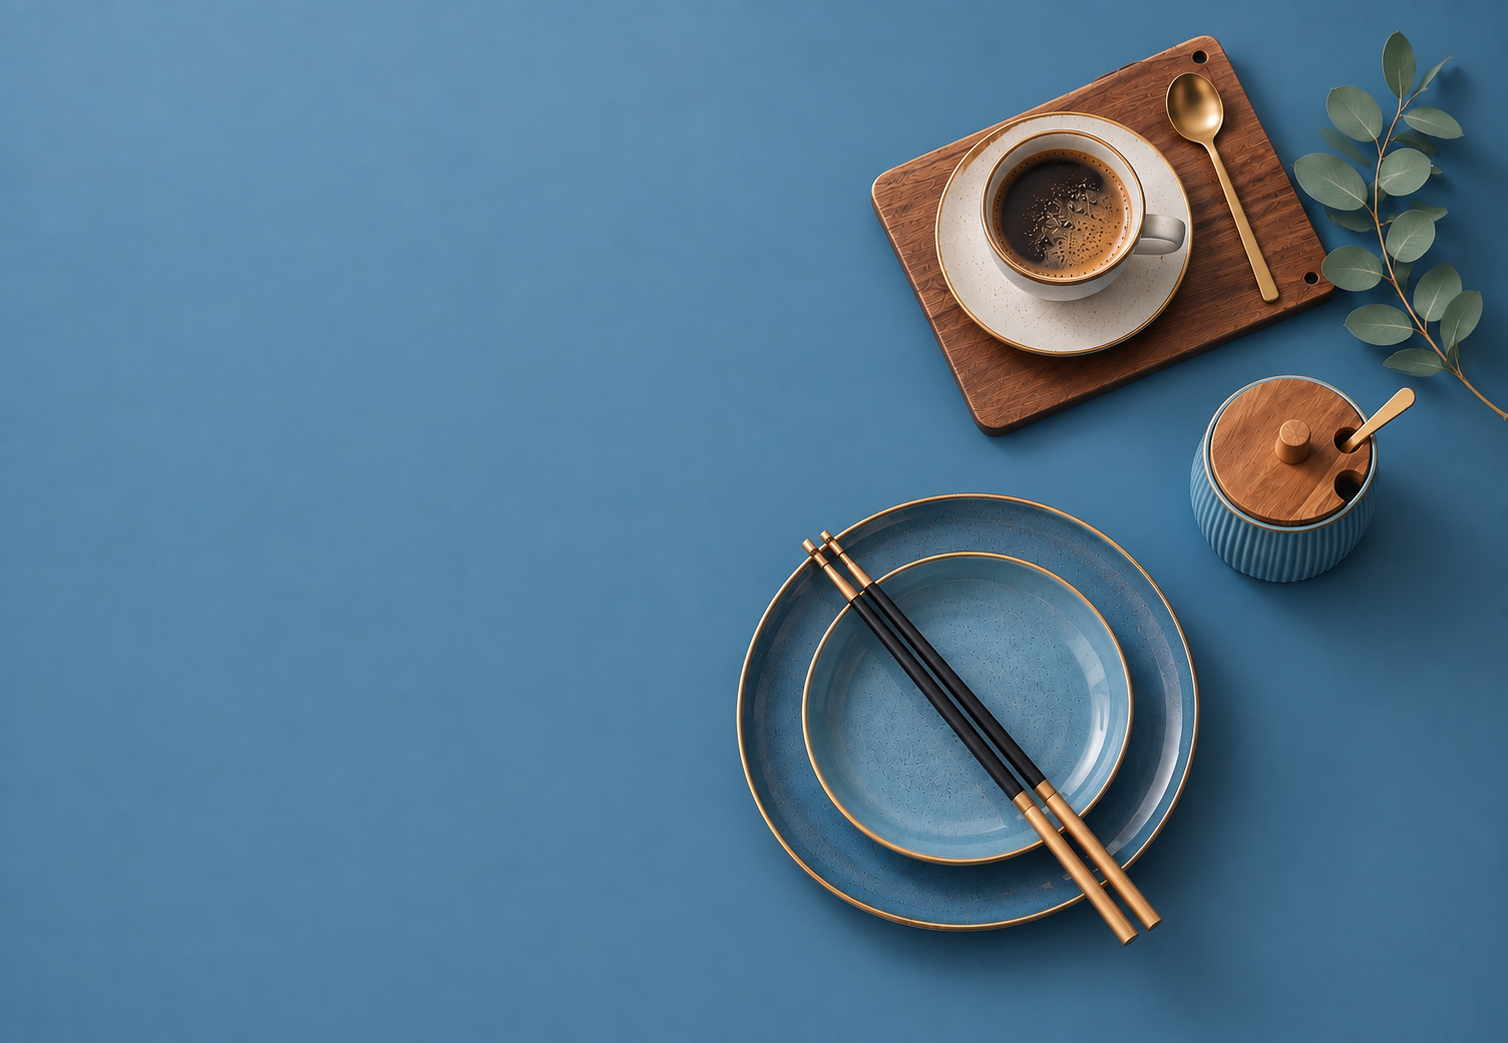
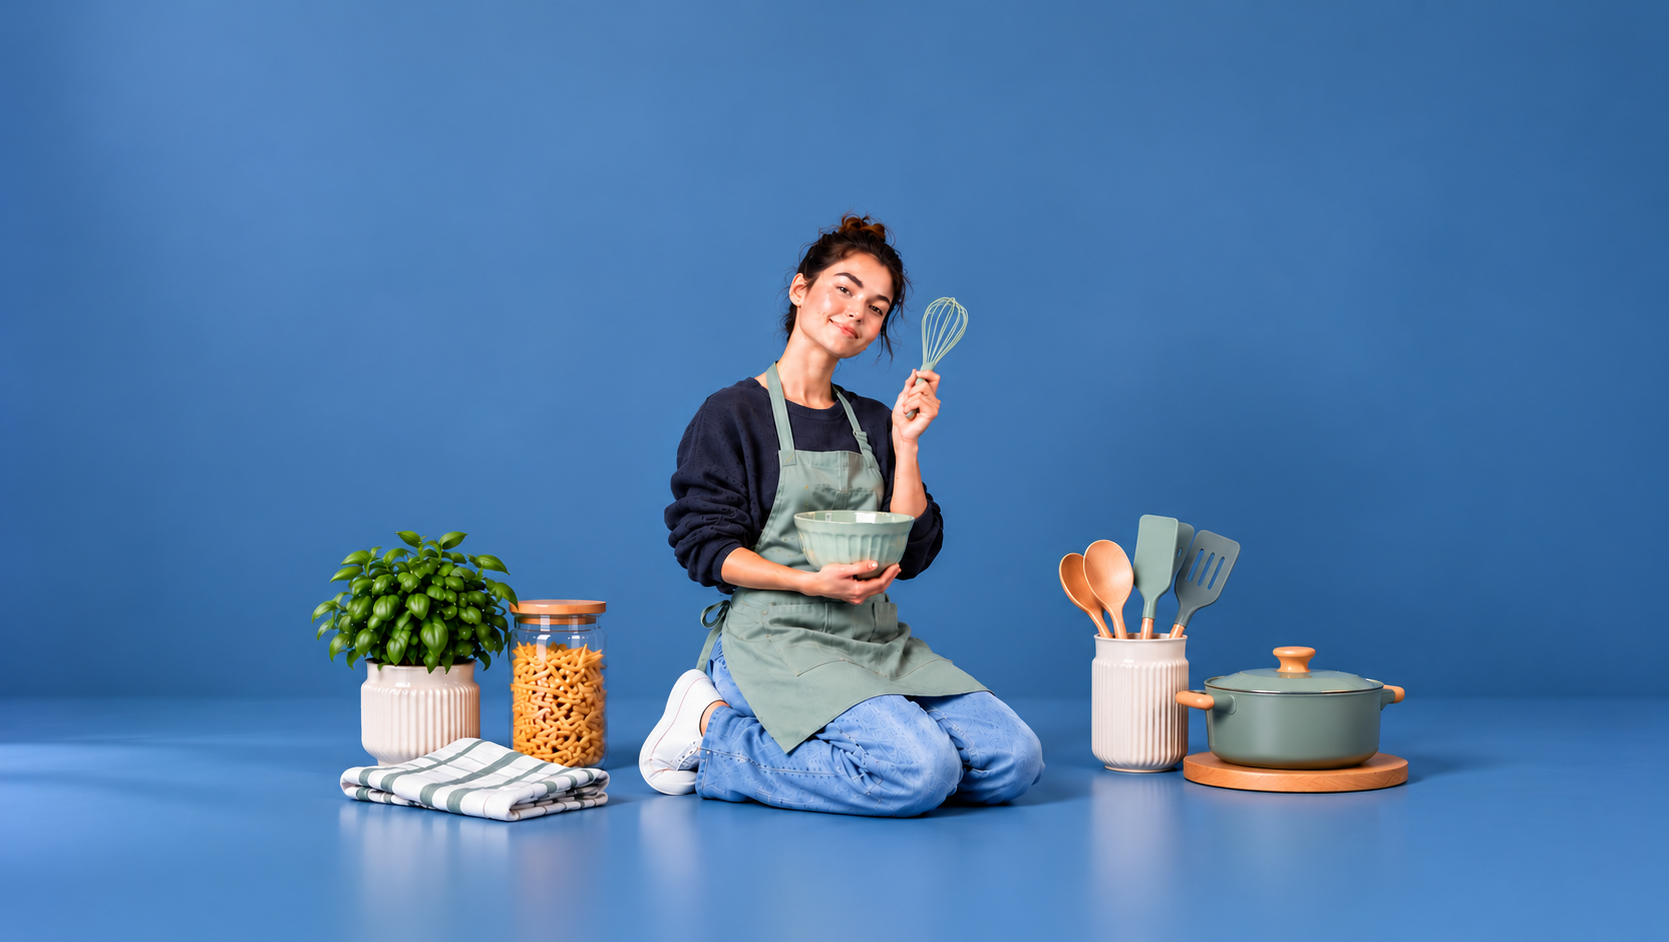
Add files via upload

diff --git a/js/scripts.js b/js/scripts.js
@@ -1,17 +1,43 @@
-const swiper = new Swiper(".mySwiper", {
-	grabCursor: true,
+// const swiper = new Swiper(".mySwiper", {
+// 	grabCursor: true,
 
+// 	loop: true,
+
+// 	speed: 1200,
+
+// 	effect: "cards",
+// 	autoplay: {
+// 		delay: 5000,
+// 		pauseOnMouseEnter: false,
+// 		disableOnInteraction: true,
+// 	},
+// 	pagination: {
+// 		el: ".slider-dots",
+// 		clickable: true,
+// 		bulletClass: "dots",
+// 		bulletActiveClass: "active",
+// 	},
+// 	navigation: {
+// 		prevEl: ".slider-prev",
+// 		nextEl: ".slider-next",
+// 	},
+// });
+
+      var swiper = new Swiper('.mySwiper', {
+        grabCursor: true,
+        effect: 'creative',
 	loop: true,
 
 	speed: 1200,
-
-	effect: "cube",
-	autoplay: {
-		delay: 5000,
-		pauseOnMouseEnter: false,
-		disableOnInteraction: true,
-	},
-	pagination: {
+        creativeEffect: {
+          prev: {
+            shadow: true,
+            translate: ['-20%', 0, -1],
+          },
+          next: {
+            translate: ['100%', 0, 0],
+          },
+        },		pagination: {
 		el: ".slider-dots",
 		clickable: true,
 		bulletClass: "dots",
@@ -21,9 +47,8 @@ const swiper = new Swiper(".mySwiper", {
 		prevEl: ".slider-prev",
 		nextEl: ".slider-next",
 	},
-});
-
-
+			
+      });
 
 
 let headerTop = document.querySelector(".header-top");

diff --git a/css/style.css b/css/style.css
@@ -17,7 +17,7 @@
 }
 
 :root {
-	--fColor: #1A202C;
+	--fColor: #1a202c;
 }
 
 body {
@@ -67,8 +67,7 @@ img {
 	text-align: center;
 }
 
-.text-left
- {
+.text-left {
 	text-align: left;
 }
 @media screen and (min-width: 768px) {
@@ -356,10 +355,10 @@ pping .cart-items .cart-desc {
 	width: 100%;
 }
 .sec-slider .slider-desc {
-	transform: translateY(-50%);
+	transform: translate(-50%, -50%);
 	position: absolute;
 	top: 50%;
-	left: 15%;
+	left: 50%;
 	text-align: center;
 }
 
@@ -492,7 +491,8 @@ pping .cart-items .cart-desc {
 
 @media screen and (max-width: 576px) {
 	.sec-slider .slider-desc h3 {
-		font-size: 22px;
+		font-size: 35px;
+		letter-spacing: 0;
 	}
 
 	.sec-slider .slider-prev {
@@ -592,7 +592,7 @@ pping .cart-items .cart-desc {
 	color: #fff;
 }
 
-.featured-product .main-product .product-inner:hover .product-btn .btn  {
+.featured-product .main-product .product-inner:hover .product-btn .btn {
 	opacity: 1;
 	visibility: visible;
 	bottom: 20px;

diff --git a/index.html b/index.html
@@ -181,7 +181,7 @@
 				<div class="swiper-wrapper">
 					<div class="slider-items swiper-slide">
 						<div class="position-relative">
-							<img src="images/slider_02.png" alt="" class="img-fluid" />
+							<img src="images/slider_111.png" alt="" class="img-fluid" style="object-position: center 65%;"/>
 							<div class="slider-desc">
 								<h3>easy Living</h3>
 								<p class="mt-2">Stylish Essentials for Everyday Cooking</p>
@@ -191,7 +191,7 @@
 					</div>
 					<div class="slider-items swiper-slide">
 						<div class="position-relative">
-							<img src="images/slider_01.png" alt="" class="img-fluid" />
+							<img src="images/slider_01.png" alt="" class="img-fluid" style="object-position: center 65%;" />
 							<div class="slider-desc">
 								<h3>smart Living</h3>
 								<p class="mt-2">Modern essentials. Better everyday living</p>
